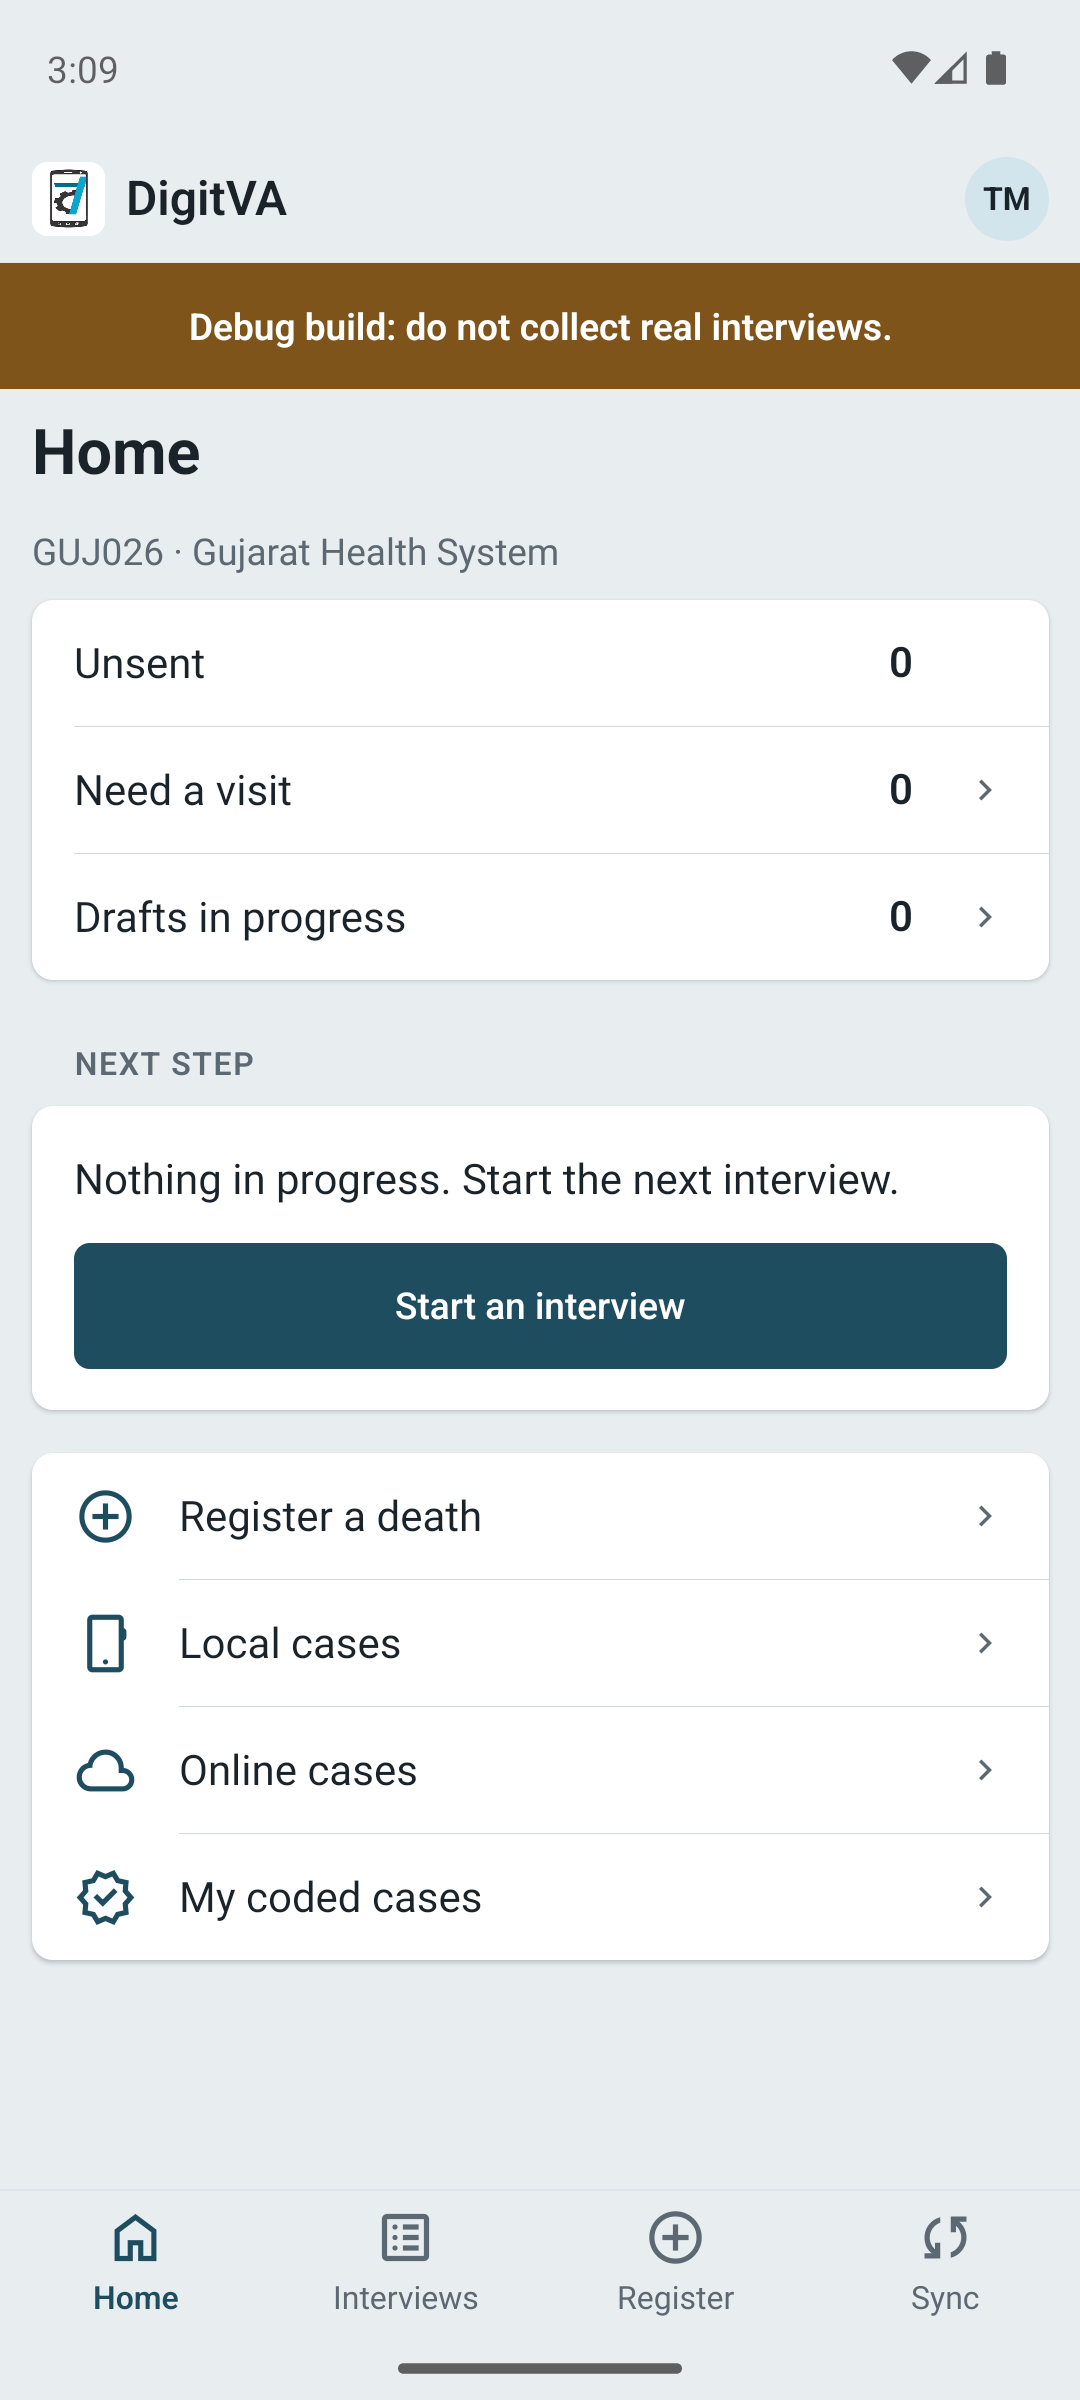
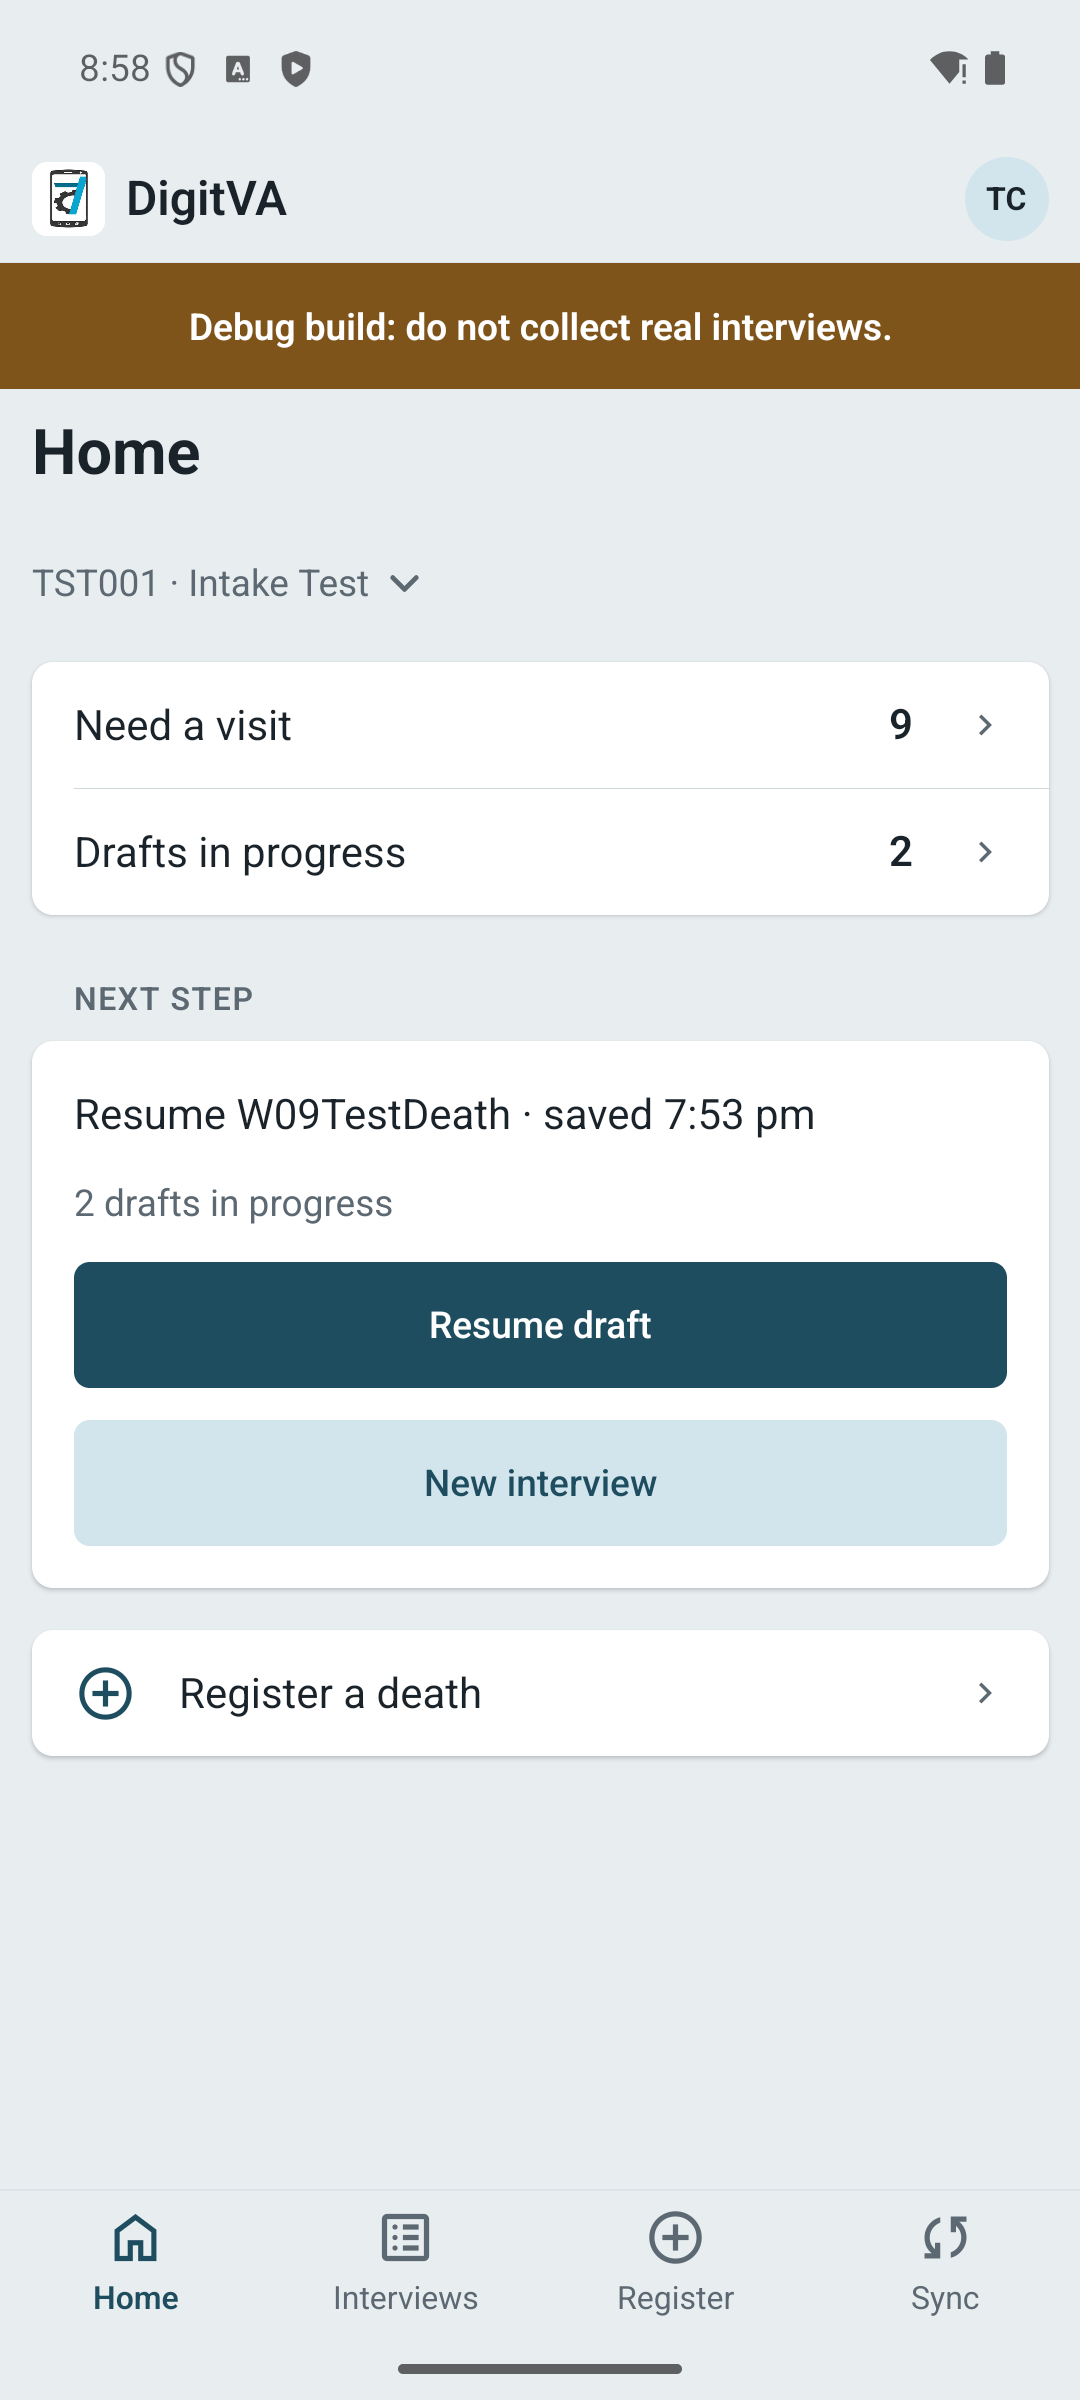
Show plain "More" at the default filter, seed a second SC01 interviewer, and soften the saved-media load message
"More: All" highlighted at rest read as an active filter, so the chip stays
plain until a non-default filter is picked. test.cho.sc02 gets an SC01
interviewer grant in the test-project seed so the other-interviewer warning
can be exercised; Android Home and Interviews are refrozen with it.

w80u did not reproduce: audio bytes live in the encrypted attachments table,
so relaunch cannot break them. The load-failure message now tells the user to
replace the recording if it keeps failing, rather than claiming the file left
the phone, since the same message shows on web and on network failures.

diff --git a/mobile/digitva-collect/__tests__/phone-list-controls.test.tsx b/mobile/digitva-collect/__tests__/phone-list-controls.test.tsx
@@ -100,6 +100,13 @@ describe("controls", () => {
     expect(more.findAllByType(Text)[0].props.children).toBe("More");
   });
 
+  it("leaves the More chip unselected and plain at the default All filter", async () => {
+    await render(<InterviewsView loaded offline={false} items={[item()]} canRegister refreshing={false} busy={false} canRefresh hasMore={false} loadingMore={false} loadFailed={false} onAction={noop} onRetryDemo={noop} onRegister={noop} onRefresh={noop} onLoadMore={noop} initialFilter="all" />);
+    const more = tree.root.findAll((n) => n.props.accessibilityRole === "tab" && n.props.accessibilityLabel === "More")[0];
+    expect(more.props.accessibilityState).toEqual({ selected: false });
+    expect(more.findAllByType(Text)[0].props.children).toBe("More");
+  });
+
   it("filter chips are single line, 44dp, with the centring style", async () => {
     await render(<InterviewsView loaded offline={false} items={[item()]} canRegister refreshing={false} busy={false} canRefresh hasMore={false} loadingMore={false} loadFailed={false} onAction={noop} onRetryDemo={noop} onRegister={noop} onRefresh={noop} onLoadMore={noop} />);
     const chips = tree.root.findAll((n) => n.props.accessibilityRole === "tab" && typeof n.props.onPress === "function");

diff --git a/mobile/digitva-collect/src/nativeRoutes/worklistParts.tsx b/mobile/digitva-collect/src/nativeRoutes/worklistParts.tsx
@@ -262,8 +262,8 @@ const MORE_FILTERS: Array<{ key: InterviewFilter; label: () => string }> = [
 function FilterChips({ value, counts, onChange }: { value: InterviewFilter; counts: Record<InterviewFilter, number>; onChange(filter: InterviewFilter): void }) {
   const { ui, typography, textScale } = useTheme();
   const [more, setMore] = useState(false);
-  // "All" counts as picked here too: the sheet's way back to it leaves the chip reading "More: All", not plain "More".
-  const activeMore = MORE_FILTERS.find((chip) => chip.key === value);
+  // "All" is the default, so it leaves the chip plain "More"; only Sent and Revisions highlight it.
+  const activeMore = MORE_FILTERS.find((chip) => chip.key === value && chip.key !== "all");
   const moreOn = activeMore !== undefined;
   const moreText = activeMore ? t("filterMoreActive", { label: activeMore.label() }) : t("filterMore");
   const build = useCallback((): ChoiceList => ({

diff --git a/vendor/who-va-2022/src/i18n.ts b/vendor/who-va-2022/src/i18n.ts
@@ -432,9 +432,9 @@ export const ENGLISH_UI_MESSAGE_TEMPLATES: WhoVaUiMessageTemplates = {
     "Microphone permission was denied. Allow microphone access in the browser and try again.",
   audioRecordingFailed: "Audio recording failed. Please try again.",
   loadingAudio: "Loading recording…",
-  savedAudioLoadFailed: "The saved recording could not be loaded from this device.",
+  savedAudioLoadFailed: "The saved recording could not be loaded. If it keeps failing, choose Replace audio to record it again.",
   selectedImage: "Selected image",
-  savedImageLoadFailed: "The saved image could not be loaded from this device.",
+  savedImageLoadFailed: "The saved image could not be loaded. If it keeps failing, choose Replace image to add it again.",
   scanBarcode: "Scan",
   getLocation: "Get location",
   updateLocation: "Update location",

diff --git a/mobile/digitva-collect/__tests__/phone-list-views.test.tsx b/mobile/digitva-collect/__tests__/phone-list-views.test.tsx
@@ -270,7 +270,7 @@ describe("Interviews", () => {
     expect(shown(tree)).toContain("More: Revisions");
     await act(async () => pressable(tree, "More").props.onPress());
     await act(async () => pressable(tree, "All").props.onPress());
-    expect(shown(tree)).toContain("More: All");
+    expect(shown(tree)).not.toContain("More: ");
   });
 
   it("opens the case detail when a Sent case card is tapped anywhere on its body", async () => {

diff --git a/app/commands/seed.py b/app/commands/seed.py
@@ -371,6 +371,8 @@ _TST_USERS = (
     ("test.mo.phc01", "coder", "PHC01", "MO", ("interview_supervisor", "coder")),
     ("test.mo.phc02", "coder", "PHC02", "MO", ("interview_supervisor", "coder")),
     *((f"test.cho.sc0{n}", "intake", f"SC0{n}", "CHO", ("interviewer",)) for n in range(1, 7)),
+    # A second interviewer in scope of SC01 cases (the other-interviewer warning).
+    ("test.cho.sc02", "intake", "SC01", "CHO", ("interviewer",)),
     # Register deaths but never interview; the app is their only surface, so
     # the web landing page falls through to the home page.
     ("test.anm.sc01", "intake", "SC01", "ANM", ("death_reporter",)),

diff --git a/handoff.md b/handoff.md
@@ -3,7 +3,7 @@
 ## Start here
 
 Fully offline DORIS coding in Collect Plus (`digitva-9cll`). Staging runs
-`f01f3e68f` (deployed 5 Nov; web `expo-web-v2026.11.05.1`); phones there are
+`d024b5ad0` (deployed 7 Nov); phones there are
 on 0.3.19 or older. main now also carries the Collect Petrol redesign,
 accessibility settings and server UI languages (CHANGELOG 2026-11-06), with
 the iOS, SmartVA and standalone app work that shared its files. Never reset
@@ -17,41 +17,31 @@ Collect screens are frozen (`docs/design/collect-petrol-theme/README.md`);
 any change to one is re-checked against `frozen/` (light, dark, high
 contrast, Large text) and refrozen.
 
-## Next session prompt (owner, 2026-11-06)
+## Next session prompt (owner, 2026-11-07)
 
-"Drive a full end-to-end test of DigitVA Collect and Collect Plus on the
-Android emulator (DigitVA_Pixel_7) and the iOS 27.2 simulator (iPhone 17 Pro
-(iOS 27.2)) against the LOCAL dev server only (localhost:8051 via adb
-reverse; seeded TST001 accounts in docs/current-state/test-project-tst001.md).
-Cover: start, every sign-in/enrol path (QR, email, demo, standalone), PIN
-lockout and Forgot PIN, record a death and update it, GPS, the interview
-(start, consent approve and refuse, stop, resume with every answer and
-attachment intact, narrative audio record/pause/stop/delete, document photos
-with scanner, blur prompt and full-screen viewer), reopen a ready interview,
-sync, update, resend, and every in-app coding workflow (online and offline,
-standalone View/Revise). Write a repeatable e2e script where feasible (Maestro
-or Detox; propose first). Run it as two Sonnet agents, one driving Android, one
-driving iOS, each with its own test DB if it writes tests, and record every finding with screenshots in
-docs/current-state/collect-e2e-run-<date>.md, one bead per failure."
-Uncommitted in the tree for that session to verify first, then commit:
-`digitva-lq5m` photo tools (vendor question-controls, sharpness, viewer,
-scanner plugin, gesture-handler; policy in docs/policy/phone-attachments.md
-decision 9), the resumed-photo preview fix, and vendor test mocks. Dev builds
-with them are on both simulators; the Samsung needs the new debug APK
-(android/app/build/outputs/apk/debug). After it: waveform recorder
-(owner-approved, not started). Metro: 8081 Plus, 8082 plain; the Mac's LAN
-IP is now 192.168.1.18.
+The 2026-11-06 Collect e2e run and its fixes are done and on staging
+(`d024b5ad0`, CHANGELOG 2026-11-07; report
+`docs/current-state/collect-e2e-run-2026-11-06.md`). Left from it:
+- `digitva-nih5` web live camera: check in a real browser (the browser pane
+  blocks the camera; only unit-tested).
+- Saved web audio from S3 (`oll6` fix) on staging: record, leave, return.
+- Sent read-only view of an interview with media: untested.
+- Hindi for the new attachment-load and camera strings.
+- Vendor change on the :8051 dev web interview needs
+  `npm --prefix vendor/who-va-2022 run build` then
+  `docker restart digitva-digitva_web_hmr-1` (add to expo-client.md).
+- Optional: lock the profile store when the server revokes a session.
+Native folders: `ios/`, `android/` are Collect Plus; plain Collect prebuilds
+are in `ios.plain-bak`, `android.plain-bak` (untracked). Dev data: SADEMO
+cases coded by test.coder.nc01, drafts SC01-000164..177, a test.cho.sc02
+draft on SC01 case b9cf3f2c. Samsung has the plain Collect debug build.
 
 ## Ranked next steps
 
 1. Collection gate, app side (`digitva-dj29`, the iOS/Expo session): the
    Expo start check against `/me/access` "Collection gate"
    (`docs/current-state/device-collection-api.md`); the server side is on main
-   (`87fff09cd`, `digitva-jeyy`). Before a staging deploy: run migrations
-   `e4b7c2d9a6f1`..`d8a4c6e2f1b3` and audit old APKs (the access fields are
-   additive; `collection_closed` is web-only); `d8a4c6e2f1b3` drops and
-   rebuilds the core analytics MV with CASCADE, so check `pg_depend` on
-   staging first. Owner decision: area dashboard windows on the project clock
+   (`87fff09cd`, `digitva-jeyy`). Migrations through `d8a4c6e2f1b3` are on staging. Owner decision: area dashboard windows on the project clock
    (`digitva-at68`). Help chatbot build (`digitva-wawz`, policy
    `docs/policy/help-chatbot.md`; the PII redaction step is not built).
    Manuscript placeholders: ethics numbers (owner adds), two surnames,
@@ -64,7 +54,7 @@ IP is now 192.168.1.18.
    `load_failed` on the arm64 emulator (`digitva-rih6`, so the coding tools
    and Demo mode were never design-reviewed), app speed on the SM-E146B with
    the CI APK (`digitva-xxfz`).
-3. Security audit run-5 fixes (`digitva-ssg7`) are on main, not staging.
+3. Security audit run-5 fixes (`digitva-ssg7`) are on staging since 7 Nov.
    Before deploying: count active `va_reviewer_initial_assessments` rows with
    NULL `payload_version_id`; check a multi-project user's case list and
    export (PII is per project). Report:
@@ -72,7 +62,7 @@ IP is now 192.168.1.18.
    needs the old-APK audit (the redesign changes no API shapes; the new
    `/api/v1/ui-strings` routes are additive).
 4. Staging rollback:
-   `sudo -Hu ubuntu env SKIP_BACKUP=1 bash scripts/deploy-server.sh 3ab5c2d69bfa166d95d2d5923e43babab71823e1`.
+   `sudo -Hu ubuntu env SKIP_BACKUP=1 bash scripts/deploy-server.sh f01f3e68fa2d39e8709a37f8efbea95e4fe9d961`.
    `minerva_icd_cache_redis` (128 MB) holds the ICD-11 caches; ~0.8 GB free
    RAM, no swap. `/download/android*` serve 0.3.19 from `private/android-hosted`.
 5. On staging, by hand: refuse then re-consent a direct interview

diff --git a/docs/current-state/collect-e2e-run-2026-11-06.md b/docs/current-state/collect-e2e-run-2026-11-06.md
@@ -307,3 +307,26 @@ are not in the repo.
   follow-up, being fixed).
 - Not tested anywhere: the sent read-only view of an interview with media. It requires completing
   about 40 required questions.
+
+## Follow-up 2026-11-07 (digitva-aivk, digitva-w80u)
+
+- digitva-aivk (closed): the More chip now reads plain "More", unselected, at the default All filter, and
+  "More: Sent" / "More: Revisions" highlighted otherwise (Jest: `phone-list-controls`, `phone-list-views`).
+  Seed `test-project` now also grants `test.cho.sc02` the interviewer role at SC01 (a second interviewer in
+  scope of SC01 cases); run on dev. To exercise the warning, a draft for SC01 case b9cf3f2c was started as
+  test.cho.sc02 through `start_draft` (dev data only, not in the seed). On the Android emulator (plain Collect,
+  Metro 8082) as test.cho.sc01 the card read "Test CHO SC02 started this on 7 Nov. Check with them before you
+  start." and the More sheet had Sent / Revisions / All and no "Search units" box. Android `home.png`,
+  `interviews-list.png`, `interviews-list-2.png` under `docs/design/collect-petrol-theme/frozen/` were refrozen.
+  The emulator was on the PIN lock screen; signing in again with the password kept the local drafts
+  ("the work on this phone is kept") and a new PIN was set.
+- digitva-w80u (closed, not reproduced): on the emulator a narrative recording was made in a draft, saved,
+  the app force-stopped and relaunched, the draft reopened: the recording loaded and played (00:08). Audio
+  bytes live in the encrypted store (`attachments` table), not in a file path, so container or cache moves
+  cannot break them; `resolveStored` writes a fresh playback copy each time. The error therefore only occurs when
+  the answer references an attachment whose bytes are not on this phone (draft re-imported from the server after the
+  local store was cleared; the phone cannot re-download server attachments). Fix: the message now says what
+  to do ("This recording is not on this phone any more. Choose Replace audio to record it again."; the image
+  message likewise) in `vendor/who-va-2022/src/i18n.ts`. The missing-bytes path is already covered by
+  `attachment-capture.test.ts` (`resolveStored` returns undefined). `make check-web` passes.
+

diff --git a/CHANGELOG.md b/CHANGELOG.md
@@ -5,6 +5,17 @@ What landed, newest first. Details live in the commits and the linked docs;
 
 ## 2026-11-07
 
+- **Collect e2e fixes, GPS capture, Code and Review tabs; staging deploy**
+  (`d024b5ad0`; beads frgn, kspl, vz9f, c86x, xpaf, b3hl, vpez, 1wov, 961u,
+  xq0i, toyw, toyw.1, cy9u, d9zg, 2gw7, 35iw, 6zib, 6i9u, oll6, bl3b, frnc,
+  jb4t, 5leu): fixes from the 2026-11-06 simulator and phone run
+  (`docs/current-state/collect-e2e-run-2026-11-06.md`), native GPS chain with
+  warmup (`docs/policy/native-location-capture.md`), project choice instead of
+  a silent default, project-time-zone "today", audio Replace/Delete
+  confirmations, web live camera, simpler field-role Home and Interviews, and
+  random seeded passwords off debug. Deployed to staging 2026-11-07 after the
+  old-APK audit (no held standalone codings on staging); the staging seed
+  wrote test.all's 2 new grants.
 - **LDH manuscript moves to Google Drive only; appendix screenshots** (no beads):
   the manuscript and appendix are edited on Drive, and
   `scripts/manuscript-drive.sh` pulls them into git-ignored
